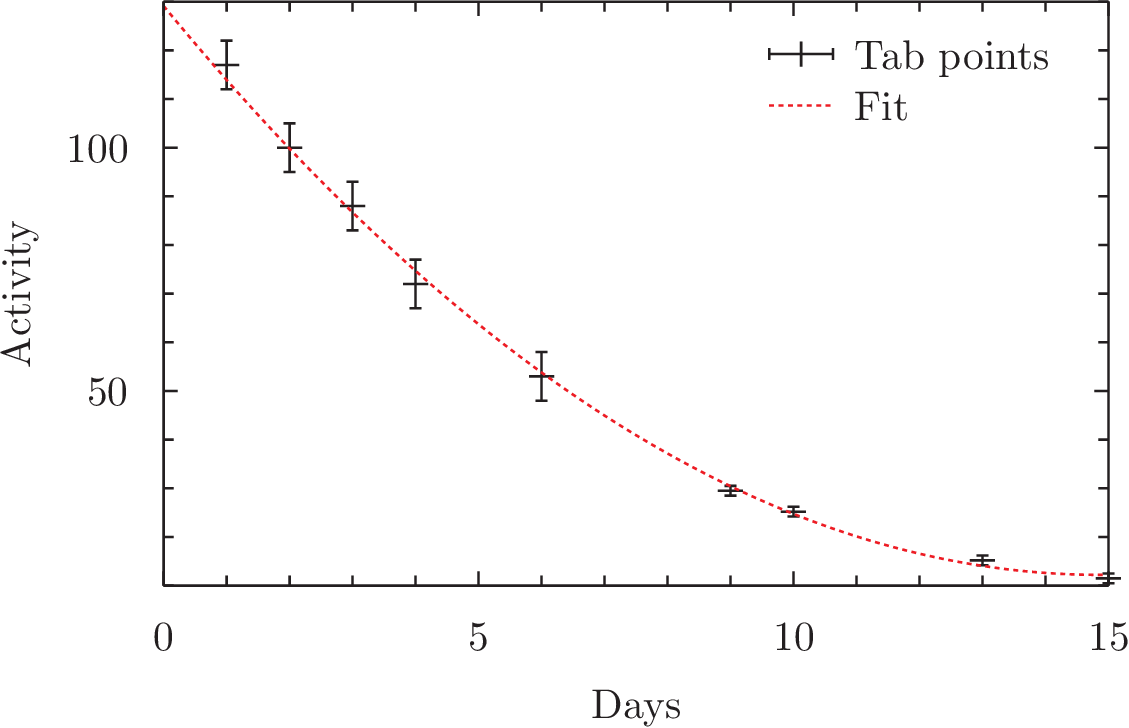
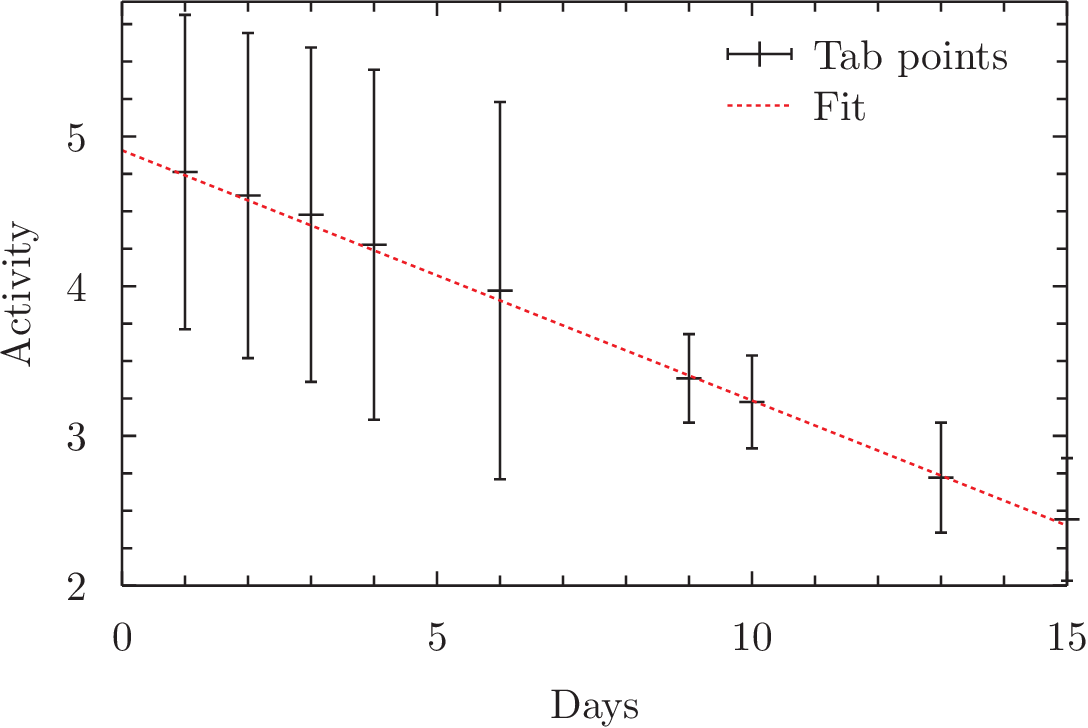
finished homework 14A leastsquares

diff --git a/homework/14-lsqr/B/leastsq.cs b/homework/14-lsqr/B/leastsq.cs
@@ -1,0 +1,23 @@
+using static System.Math;
+using static System.Console;
+using System;
+
+public class leastsquares{	
+	public static vector lsfit(Func<double, double>[] fs, double[] x, double[] y, double[] dy){
+		int n = x.Length, m = fs.Length;
+		var A = new matrix(n,m);
+		var b = new vector(n);
+		for(int i=0;i<n;i++){
+			b[i]=y[i]/dy[i];
+			for(int k=0;k<m;k++){
+				A[i,k]=fs[k](x[i])/dy[i];
+				}
+			}
+		matrix Q = A.copy();
+		matrix R = new matrix(m,m);
+		gs.QRGSdecomp(A,R,Q);
+		var c = gs.QRGSsolve(Q,R,b);
+		
+		return c;
+		}
+}

diff --git a/homework/14-lsqr/B/main.cs b/homework/14-lsqr/B/main.cs
@@ -37,11 +37,5 @@ public class main{
 			WriteLine($"{x} {c[0]+c[1]*x}");
 			}
 
-		WriteLine();
-		WriteLine();
-
-		c.print("c=");
-		WriteLine($"Lambda = {-c[1]}");
-		WriteLine($"Halflife = {Log(2)/-c[1]} days, the experimental value is 3.6319 days");
 	}//Main function
 }//class
